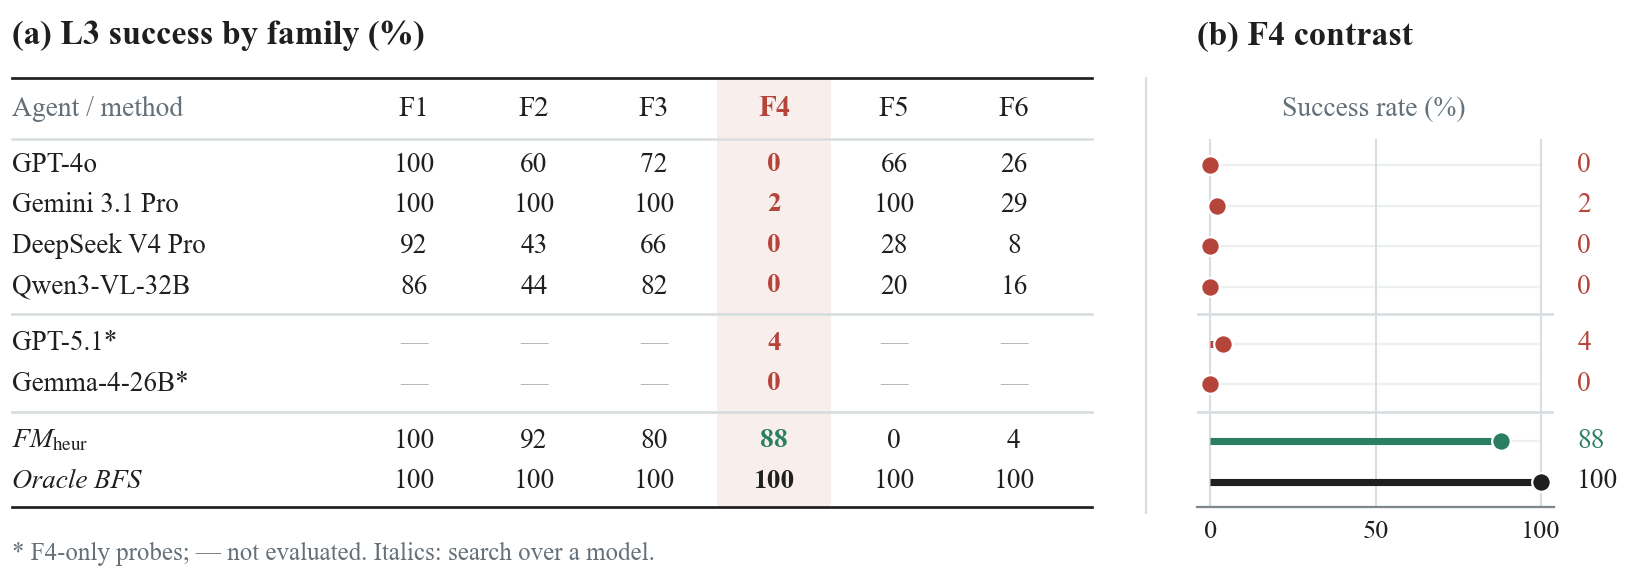
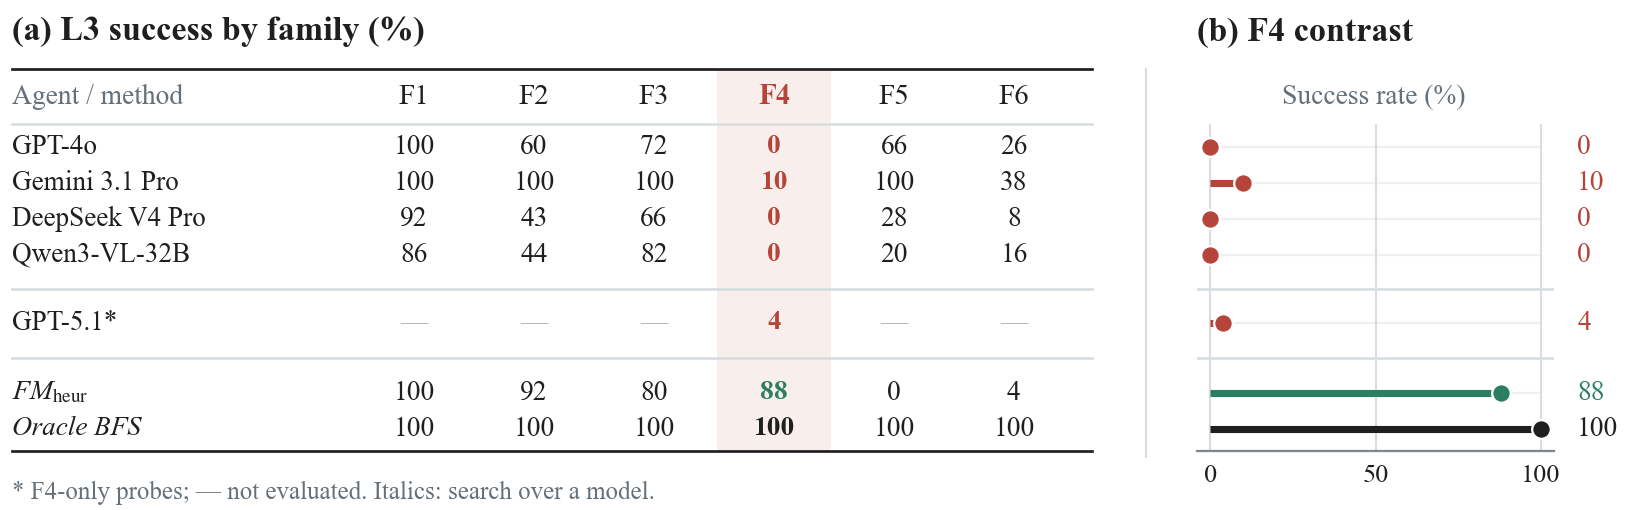
Correct Gemini F4/F6 cells in the planning-wall figure
The Gemini 3.1 Pro F4 and F6 cells previously plotted counts from a
restarted run's resumed segment on a percentage axis. They are now the
per-environment first-attempt rates recomputed from the complete run log
(F4 5/50 = 10, F6 19/50 = 38), the reading comparable with the other
single-rollout rows; the all-episode weighting (4.9, 27.4) is documented
in the script comment. The Gemma-4-26B bar is removed: no artifact for
that row exists in any reachable results tree.

Regenerated figure verified against the paper tree (PNG byte-identical;
PDF identical apart from the creation timestamp).

diff --git a/scripts/gen_fig_planning_wall.py b/scripts/gen_fig_planning_wall.py
@@ -19,10 +19,16 @@ WALL = 3
 # results/ tree, not computed at plot time; per-row sources, relative to it:
 #   GPT-4o           gpt4o_l3_f{1..6}/gateway_gpt-4o/            -> metrics.sr_pct
 #   Gemini 3.1 Pro   gemini_l3_f{1..6}/gateway_gemini-3-pro-preview/   (image)
-#                    most cells -> metrics.sr_pct; the F4 cell is that run's
-#                    success count (n_success = 2 of 38 recorded episodes,
-#                    whereas its recorded sr_pct is 5.26), because that run was
-#                    restarted and is not comparable to the clean n=50 rows
+#                    most cells -> metrics.sr_pct; the F4 and F6 cells are the
+#                    per-environment first-attempt rates recomputed from the
+#                    full jsonl (F4 5/50 = 10, F6 19/50 = 38).  That run was
+#                    restarted mid-way, so its own summary covers only the
+#                    resumed segment (partial-segment counts 2/38 and 11/38);
+#                    weighting every recorded episode instead gives 8/163 =
+#                    4.9 and 45/164 = 27.4 on the same log.  The per-environment
+#                    rates are the ones comparable with the single-rollout rows.
+#                    (2026-09-20 correction: the F4 cell previously plotted the
+#                    count 2 on the percentage axis.)
 #   DeepSeek V4 Pro  dsv4pro_l3_fixed/gateway_dsv4-lh/  (text; F2 42.86 printed as 43)
 #                    F4 from dsv4pro_l3_f4/, which has 0 successes across all
 #                    219 recorded episodes (50 unique environments)
@@ -32,12 +38,13 @@ WALL = 3
 #                    f6_recheck_20260911/fmb_f6_fixed/fmb/ for F6 (2/50).
 #                    This row mixes runs: no single invocation produced all six.
 #   Oracle BFS       exact BFS over the ground-truth transition system (upper bound)
-# F4_BARS only: GPT-5.1 -> gpt51_l3_f4/ (2/50); Gemma-4-26B is 0/50 recorded on
-# the h200 host (results_wall/gemma26b_text), not in the local results/ tree.
+# F4_BARS only: GPT-5.1 -> gpt51_l3_f4/ (2/50).  The Gemma-4-26B bar was removed
+# on 2026-09-20: no artifact exists in any reachable results tree, so the row
+# carries no evidence.
 
 TABLE_ROWS = [
     ("GPT-4o",          [100, 60, 72, 0, 66, 26], False),
-    ("Gemini 3.1 Pro",  [100, 100, 100, 2, 100, 29], False),
+    ("Gemini 3.1 Pro",  [100, 100, 100, 10, 100, 38], False),
     ("DeepSeek V4 Pro", [92, 43, 66, 0, 28, 8], False),
     ("Qwen3-VL-32B",    [86, 44, 82, 0, 20, 16], False),
     (r"FM$_{\mathrm{heur}}$", [100, 92, 80, 88, 0, 4], True),
@@ -47,16 +54,15 @@ N_CTX = 4
 
 F4_BARS = [
     ("GPT-4o", C_GPT4O, 0),
-    ("Gemini 3.1 Pro", C_GEMINI, 2),
+    ("Gemini 3.1 Pro", C_GEMINI, 10),
     ("DeepSeek V4 Pro", C_DS, 0),
     ("Qwen3-VL-32B", C_QWEN, 0),
     ("GPT-5.1", C_GPT51, 4),
-    ("Gemma-4-26B", C_GEMMA, 0),
     (r"FM$_{\mathrm{heur}}$", C_FMB, 88),
     ("Oracle BFS", C_ORACLE, 100),
 ]
-N_WALL = 6  # in-context / F4-only probes above the search divider
-PROBE_NAMES = {"GPT-5.1", "Gemma-4-26B"}
+N_WALL = 5  # in-context / F4-only probes above the search divider
+PROBE_NAMES = {"GPT-5.1"}
 
 
 W, H = 5.5, 1.91
@@ -83,9 +89,9 @@ def build():
             probes.append((name, vals, False))
     rows = TABLE_ROWS[:4] + probes + TABLE_ROWS[4:]
     expected = {name: val for name, _, val in F4_BARS}
-    assert len(rows) == 8
+    assert len(rows) == 7
     assert all(vals[WALL] == expected[name] for name, vals, _ in rows)
-    ys = [1.36, 1.225, 1.09, .955, .765, .630, .440, .305]
+    ys = [1.36, 1.225, 1.09, .955, .70, .44, .305]
 
     fig = plt.figure(figsize=(W, FIG_HEIGHT), facecolor="white")
     text(fig, .04, 1.79, "(a) L3 success by family (%)", fontsize=8.2, weight="bold")
@@ -113,11 +119,11 @@ def build():
 
     for i, ((name, vals, search), y) in enumerate(zip(rows, ys)):
         shown = name + "*" if name in PROBE_NAMES else name
-        color = GREEN if i == 6 else INK if i == 7 else RED
+        color = GREEN if i == 5 else INK if i == 6 else RED
         text(fig, .04, y, shown, fontsize=6.5,
              fontstyle="italic" if search else "normal", color=INK)
         for j, value in enumerate(vals):
-            shown_value = "\u2014" if value is None else f"{value:g}"
+            shown_value = "—" if value is None else f"{value:g}"
             text(fig, centers[j], y, shown_value, ha="center", fontsize=6.6,
                  color="#B0B7BC" if value is None else color if j == WALL else INK,
                  weight="bold" if j == WALL else "normal")
@@ -128,12 +134,12 @@ def build():
         bx.text(1.065, y, f"{value:g}", transform=bx.get_yaxis_transform(),
                 va="center", ha="left", fontsize=6.6, color=color, clip_on=False)
 
-    for y in (.8625, .5375):
+    for y in (.8275, .57):
         line(fig, .04, 3.64, y, color=RULE, lw=.65)
         bx.axhline(y, color=RULE, lw=.65, zorder=2)
     fig.add_artist(plt.Line2D([3.82 / W] * 2, [.20 / H, 1.65 / H],
                              transform=fig.transFigure, color=RULE, lw=.5))
-    text(fig, .04, .065, "* F4-only probes; \u2014 not evaluated. Italics: search over a model.",
+    text(fig, .04, .065, "* F4-only probes; — not evaluated. Italics: search over a model.",
          fontsize=6.0, color=MUTED)
     out = figure_out_dir()
     out.mkdir(parents=True, exist_ok=True)
